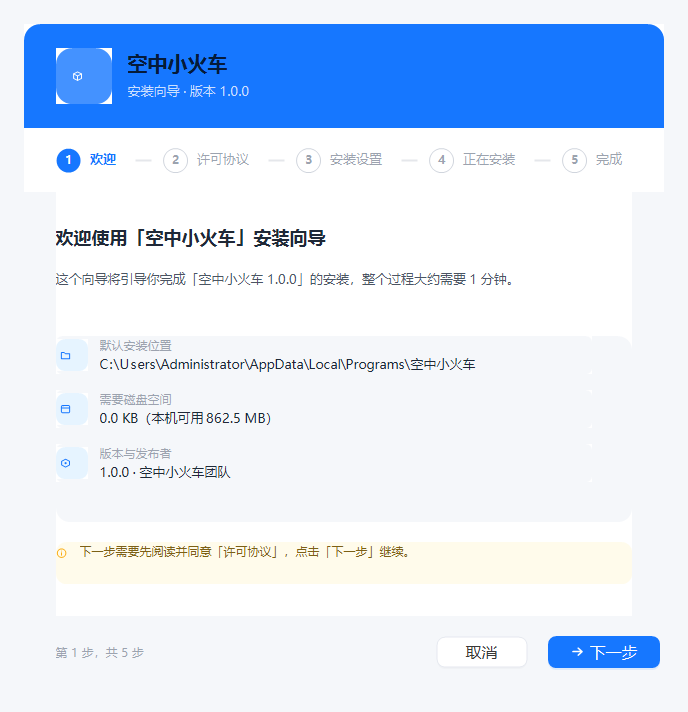
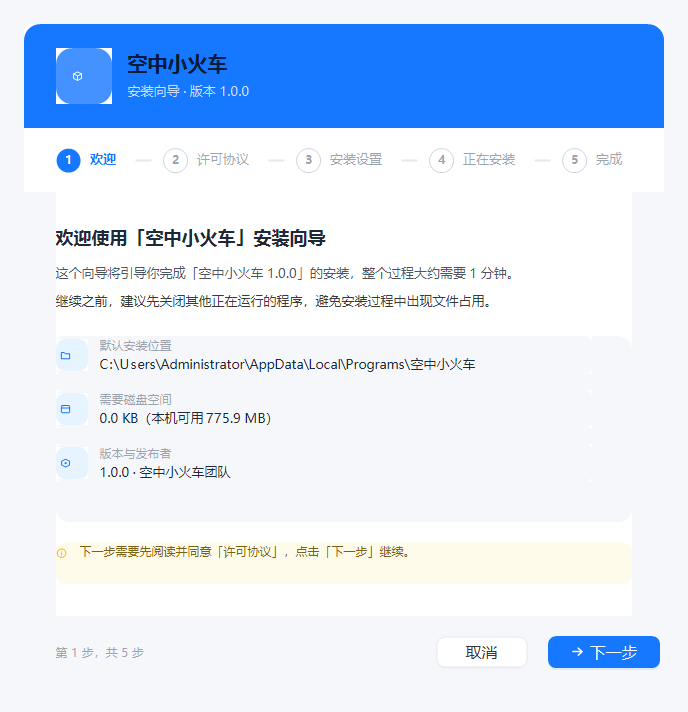
欢迎页收尾：正文拆成两段 + 修右侧底色
用户要求按 winforms 技能规范把这几个页面改好。

一、正文第二段不显示
   原因：我把设计稿的两段文字拼成一个标签用 \r\n\r\n 连接，但标签高 50
        装不下，第二段被裁掉。
   修法：按设计稿本来就是**两段独立文字**（y=262 与 y=290）的事实，
        拆成 lblBody 与 lblBody2 两个标签，各自 576x22。
        WelcomeView 新增 Body2 属性，WizardForm 分开赋值。

二、信息卡与提示条右侧的白色缺口
   原因：row1/row2/row3 三个 AntdUI.Panel 没设底色，默认白底盖在
        信息卡的浅灰底上。
   修法：把三行的 Back 设为信息卡同色（只设 Back，不设 BackColor）。
   验证：采样 (620,360)/(620,414)/(620,468) 均为 #F5F7FA，与设计稿一致。

当前一致度 88.6%（88.2% → 88.6%）

winforms 技能自查
  check-designer  通过（9 个 Designer 文件，未发现问题）
  check-structure 报 3 个错误，全部是 Models/WizardModels.cs 引用
    Installer.Abstractions.Install —— 那是跨项目的共享契约程序集，
    不是同项目内的层，属脚本误报。

验收：构建 0 警告、单元测试 182/182

Changed region(s): [[0.061, 0.3708, 0.7631, 0.4326], [0.3052, 0.5562, 0.3358, 0.618]]

diff --git a/src/Installer.UI/Views/WelcomeView.Designer.cs b/src/Installer.UI/Views/WelcomeView.Designer.cs
@@ -45,6 +45,7 @@ namespace Installer.UI.Views
         {
             this.lblTitle = new AntdUI.Label();
             this.lblBody = new AntdUI.Label();
+            this.lblBody2 = new AntdUI.Label();
             this.infoCard = new AntdUI.Panel();
             this.row1 = new AntdUI.Panel();
             this.boxDir = new AntdUI.Panel();
@@ -95,9 +96,20 @@ namespace Installer.UI.Views
             this.lblBody.Location = new System.Drawing.Point(0, 70);
             this.lblBody.Margin = new System.Windows.Forms.Padding(0);
             this.lblBody.Name = "lblBody";
-            this.lblBody.Size = new System.Drawing.Size(576, 50);
+            this.lblBody.Size = new System.Drawing.Size(576, 22);
             this.lblBody.TabIndex = 1;
             this.lblBody.Text = "";
+            //
+            // lblBody2 —— 设计稿 (56,290) 576x22，13px = 9.75pt #4B5563
+            //
+            this.lblBody2.AutoSize = false;
+            this.lblBody2.Font = new System.Drawing.Font("微软雅黑", 9.75F);
+            this.lblBody2.Location = new System.Drawing.Point(0, 98);
+            this.lblBody2.Margin = new System.Windows.Forms.Padding(0);
+            this.lblBody2.Name = "lblBody2";
+            this.lblBody2.Size = new System.Drawing.Size(576, 22);
+            this.lblBody2.TabIndex = 2;
+            this.lblBody2.Text = "";
             //
             // infoCard —— 设计稿 (56,336) 576x186，圆角 14，底 #F5F7FA，内边距 20
             //
@@ -304,6 +316,7 @@ namespace Installer.UI.Views
             this.BackColor = System.Drawing.Color.White;
             this.Controls.Add(this.hintPanel);
             this.Controls.Add(this.infoCard);
+            this.Controls.Add(this.lblBody2);
             this.Controls.Add(this.lblBody);
             this.Controls.Add(this.lblTitle);
             this.Font = new System.Drawing.Font("微软雅黑", 9.75F);
@@ -324,6 +337,7 @@ namespace Installer.UI.Views
 
         private AntdUI.Label lblTitle;
         private AntdUI.Label lblBody;
+        private AntdUI.Label lblBody2;
         private AntdUI.Panel infoCard;
         private AntdUI.Panel row1;
         private AntdUI.Panel boxDir;

diff --git a/src/Installer.UI/Views/WelcomeView.cs b/src/Installer.UI/Views/WelcomeView.cs
@@ -26,11 +26,18 @@ namespace Installer.UI.Views
             set { lblTitle.Text = value; }
         }
 
-        /// <summary>正文（可含换行）。</summary>
+        /// <summary>正文第一段。</summary>
         public string Body
         {
             get { return lblBody.Text; }
             set { lblBody.Text = value; }
+        }
+
+        /// <summary>正文第二段（设计稿是独立一段，不是同一段里的换行）。</summary>
+        public string Body2
+        {
+            get { return lblBody2.Text; }
+            set { lblBody2.Text = value; }
         }
 
         /// <summary>设置主色（安装 = 蓝，卸载 = 红）。</summary>

diff --git a/src/Installer.UI/Forms/WizardForm.cs b/src/Installer.UI/Forms/WizardForm.cs
@@ -302,7 +302,8 @@ namespace Installer.UI.Forms
                         _presenter.Text("Welcome.Title"), _presenter.ProductName);
                     _welcomeView.Body = string.Format(CultureInfo.CurrentCulture,
                         _presenter.Text("Welcome.Body"), _presenter.ProductName, _presenter.ProductVersion)
-                        + "\r\n\r\n" + _presenter.Text("Welcome.Body2");
+;
+                    _welcomeView.Body2 = _presenter.Text("Welcome.Body2");
                     _welcomeView.ApplyCaptions(_presenter.Text);
                     _welcomeView.DirValue = _presenter.Options.InstallDir;
                     _welcomeView.SpaceValue = BuildSpaceText();
